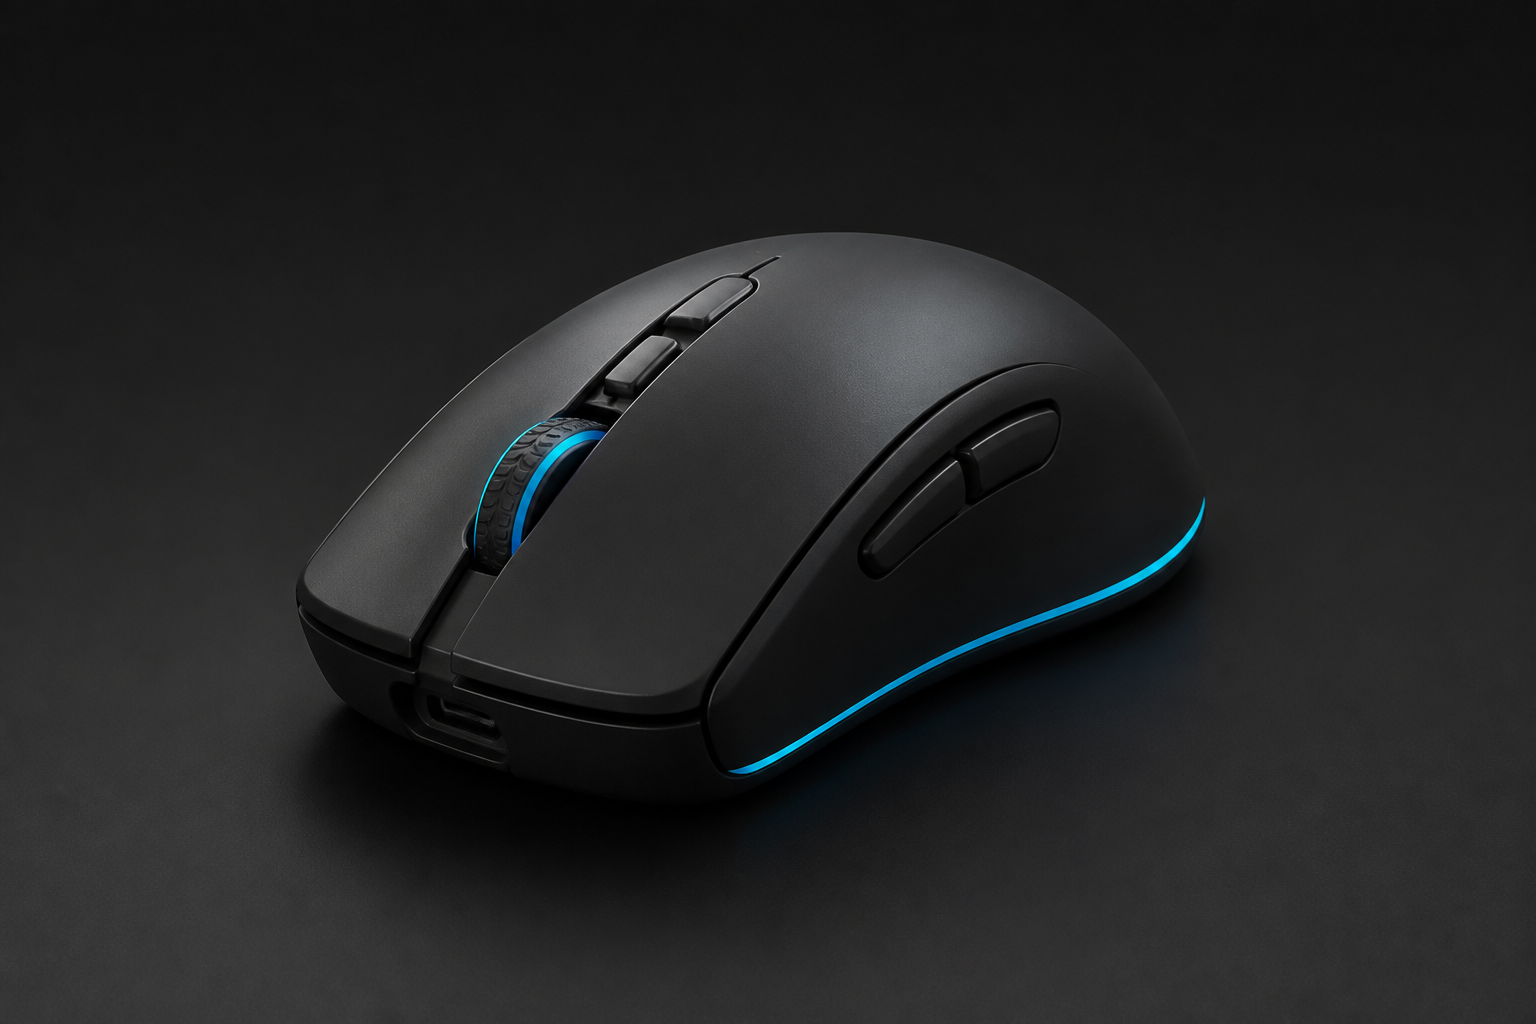
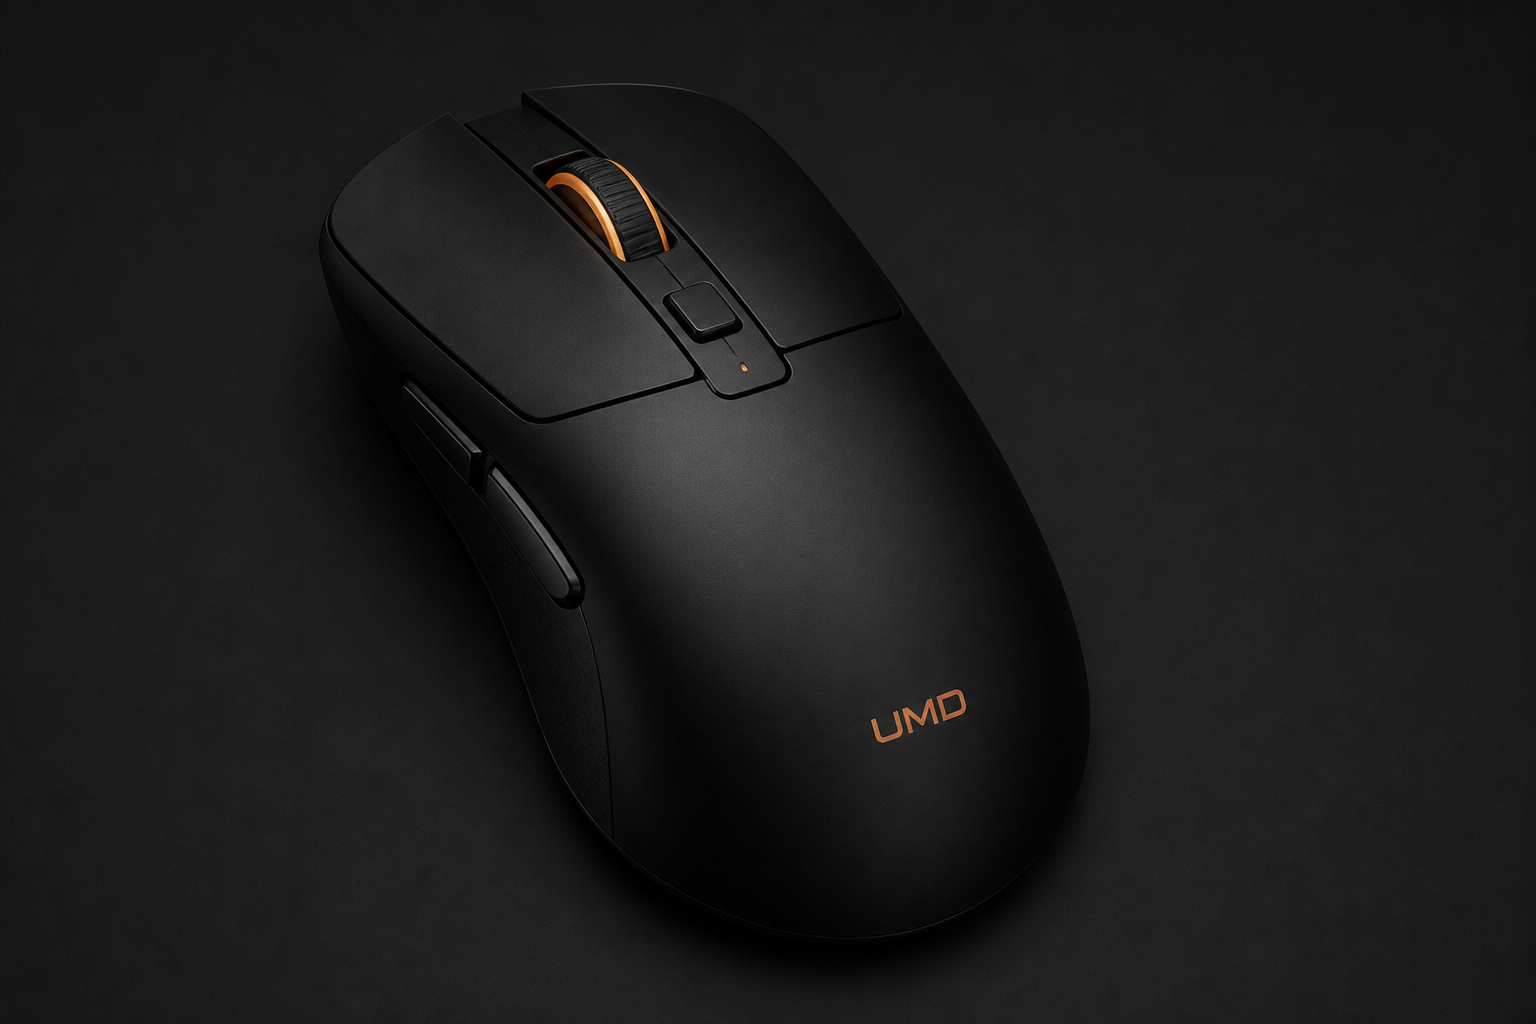
Use dedicated UMD Demo mouse PNG (not King Ultra OEM art) for demo profile.

diff --git a/web/src/devices/demo/identity.ts b/web/src/devices/demo/identity.ts
@@ -1,6 +1,6 @@
 import type { ButtonBinding, DeviceIdentity } from '../types'
 
-/** Fictional / generated mouse for "Try demo profile" - not Redragon. */
+/** Fictional generated mouse for "Try demo profile" - not Redragon / King Ultra. */
 export const DEMO_IDENTITY: DeviceIdentity = {
   id: 'umd-demo',
   brand: 'UMD',
@@ -11,20 +11,21 @@ export const DEMO_IDENTITY: DeviceIdentity = {
   hidIds: ['demo'],
   status: 'live',
   sensor: 'Virtual',
-  imageUrl: '/devices/demo/mouse.svg',
+  /** Dedicated studio PNG (not King Ultra OEM art). */
+  imageUrl: '/devices/demo/mouse.png',
   artWidth: 1536,
   artHeight: 1024,
 }
 
-/** Badge positions tuned to the generated studio mockup (1536×1024). */
+/** Badge positions for /devices/demo/mouse.png (1536×1024). */
 export const DEMO_BUTTONS: ButtonBinding[] = [
   {
     id: 1,
     flashIndex: 0x00,
     label: 'Left Button',
     action: 'left',
-    uiX: 700,
-    uiY: 430,
+    uiX: 690,
+    uiY: 420,
   },
   {
     id: 2,
@@ -32,38 +33,38 @@ export const DEMO_BUTTONS: ButtonBinding[] = [
     label: 'Right Button',
     action: 'right',
     uiX: 980,
-    uiY: 400,
+    uiY: 430,
   },
   {
     id: 3,
     flashIndex: 0x02,
     label: 'Middle Button',
     action: 'middle',
-    uiX: 820,
-    uiY: 360,
+    uiX: 835,
+    uiY: 340,
   },
   {
     id: 4,
     flashIndex: 0x04,
     label: 'Forward',
     action: 'forward',
-    uiX: 430,
-    uiY: 480,
+    uiX: 470,
+    uiY: 500,
   },
   {
     id: 5,
     flashIndex: 0x03,
     label: 'Back',
     action: 'back',
-    uiX: 460,
-    uiY: 600,
+    uiX: 500,
+    uiY: 620,
   },
   {
     id: 6,
     flashIndex: 0x0c,
     label: 'DPI Cycle',
     action: 'dpi_cycle',
-    uiX: 860,
-    uiY: 280,
+    uiX: 835,
+    uiY: 270,
   },
 ]

diff --git a/web/src/views/ButtonsPage.tsx b/web/src/views/ButtonsPage.tsx
@@ -52,8 +52,10 @@ export function ButtonsPage() {
     return <ClientRedirect href={lp('/')} />
   }
 
-  const mouseSrc =
-    driver.identity.imageUrl ?? '/devices/king-ultra/mouse.png'
+  const isDemo = driver.identity.id === 'umd-demo'
+  const mouseSrc = isDemo
+    ? '/devices/demo/mouse.png'
+    : (driver.identity.imageUrl ?? '/devices/king-ultra/mouse.png')
   const logoSrc = driver.identity.logoUrl
   const artW = driver.identity.artWidth ?? MOUSE_ART.width
   const artH = driver.identity.artHeight ?? MOUSE_ART.height
@@ -140,8 +142,7 @@ export function ButtonsPage() {
           />
           {state.buttons.map((b) => {
             // Demo uses generated art coords; live Redragon uses OEM/API layout.
-            const useApiLayout = driver.identity.id !== 'umd-demo'
-            const pos = useApiLayout ? posById.get(b.id) : undefined
+            const pos = !isDemo ? posById.get(b.id) : undefined
             const uiX = pos?.uiX ?? b.uiX
             const uiY = pos?.uiY ?? b.uiY
             return (
